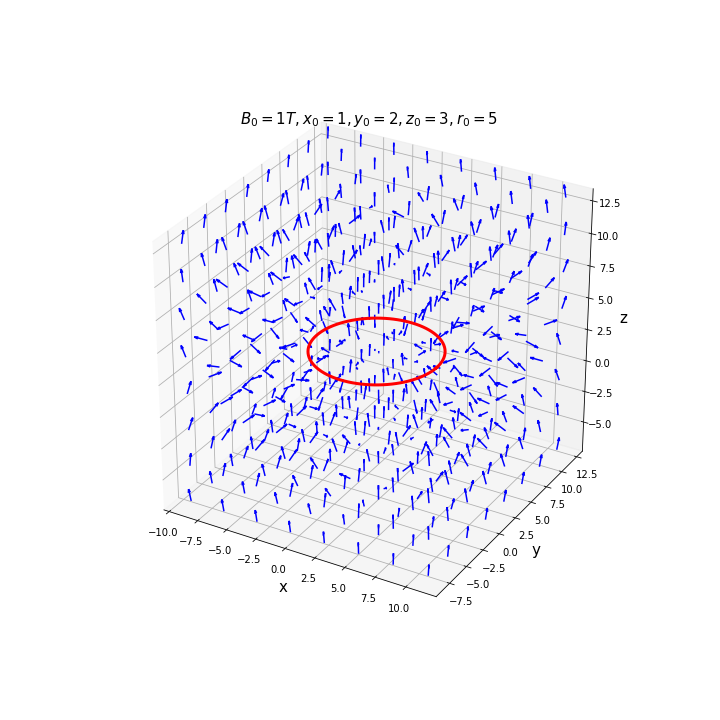
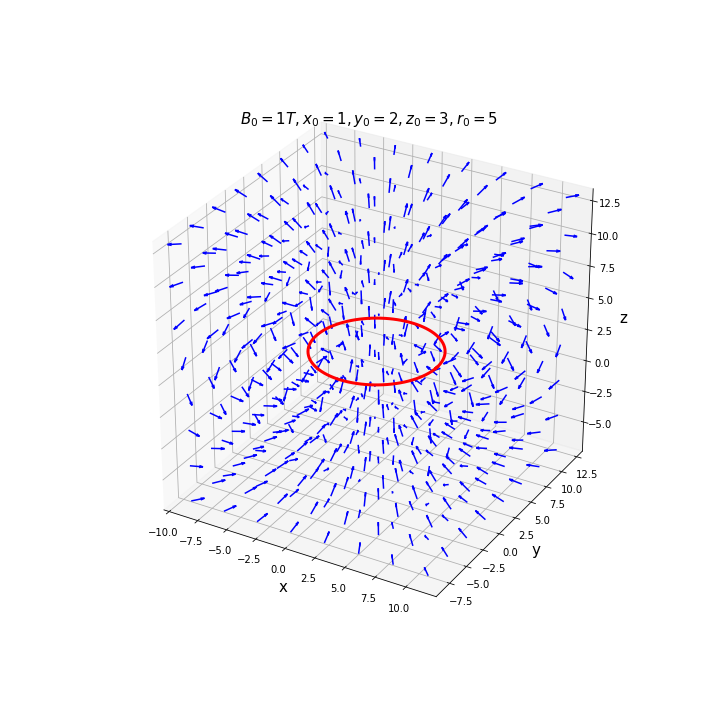
solenoid large part + corrections display2D

diff --git a/Solenoid.py b/Solenoid.py
@@ -15,7 +15,7 @@ class Solenoid:
     
     * Attributes
         - self.B0: float
-            magnetic field at the center of the tile
+            magnetic field inside the solenoid if it were infinite
         - self.L: float
             the length of the solenoid in meter
         - self.n: float
@@ -36,13 +36,13 @@ class Solenoid:
             the tiles
         
     """
-    def __init__(self,B0=1,L=1,n=100,x0=0,y0=0,z0=0,r0=0.5,axis="z"):
+    def __init__(self,I=400,L=1,n=2000,x0=0,y0=0,z0=0,r0=0.5,axis="z"):
         """
         The constructor
         
         * Arguments
-        - B0: float
-            magnetic field at the center of the tile
+        - I: float
+            the current intensity
         - L: float
             the length of the solenoid in meter
         - n: float
@@ -62,7 +62,8 @@ class Solenoid:
             sol = Solenoid(B0=1,L=1,n=100,x0=0,y0=0,z0=0,r0=0.5,axis="z")
             print(sol)
         """
-        self.B0 = B0
+        mu0 = 4E-7*np.pi
+        self.B0 = mu0*n*I
         self.L = L
         self.n = n
         self.x0 = x0
@@ -73,9 +74,12 @@ class Solenoid:
         N = self.N
         d = L/(N-1)
         self.tiles = []
+        self.I = I
+        
+        b0 = I*mu0/2/r0
         
         for i in np.arange(N) :
-         self.tiles.append(Tile(B0/N,x0=x0,y0=x0,z0=z0-L/2+i*d,r0=r0))
+         self.tiles.append(Tile(b0,x0=x0,y0=x0,z0=z0-L/2+i*d,r0=r0))
         
         
 
@@ -102,7 +106,7 @@ class Solenoid:
             sol = solenoid(r0=0.5)
             l = np.linspace(-1,1,10)
             x, y, z = np.meshgrid(l,l,l)
-            Bx, By, Bz = sol.field(l,l,l)
+            Bx, By, Bz = sol.field(x, y, z)
         """
         Bx = 0
         By = 0
@@ -172,15 +176,77 @@ class Solenoid:
         ax.set_title(title,fontsize=15)
         return fig
 
-    def displayField2D(self,figsize=(10,10)):
+    def displayField2D(self,eq_0="y",figsize=(10,10),nb_points=20,color="blue",markTile=True):
         """
-        * Arguments
-            -
-        * Returns
-            -
-        """
-        title = r"$B_0 = "+str(self.B0)+"T, x_0 = "+str(self.x0)+", y_0 = "+str(self.y0)+", z_0 = "+str(self.z0)+", r_0 = $"+str(self.r0)+", N = "+str(self.N)+", L = "+str(self.L)
+        To display the field in a plan x=0, y=0 or z=0
 
+        * Arguments
+            - eq_0: string
+                to define the variable equal to 0
+                accepted argument "x", "y"
+            - figsize: (float,float)
+                to determine the size of the figure
+            - nb_points: int
+                number of points of evaluation on each axis
+            - color: string
+                color of the arrows
+            - markTile: boolean
+                To diplay the position of the tiles
+        * Returns
+            - fig: matplotlib.pyplot.figure
+                the figure
+                
+        * Example
+            sol = Solenoid(1,1,2,3,5)
+            fig = sol.displayField2D()
+            fig.savefig("sol_2D.png")
+        """
+        nb_points = int(nb_points)
         fig = plt.figure(figsize=figsize)
-        plt.title(title)
+        
+        if eq_0 == "x":
+            xlabel = r"$y$"
+            ylabel = r"$z$"
+            title = r"x = "+str(self.x0)
+            x1, x2 = np.meshgrid(np.linspace(-3*self.r0+self.y0, 3*self.r0+self.y0, nb_points),np.linspace(self.z0-2*self.L,self.z0+2*self.L, nb_points))
+            x3 = np.zeros_like(x1)+self.x0
+            Bx3, Bx1, Bx2 = self.field(x3, x1, x2)
+            
+        elif eq_0 == "y":
+            xlabel = r"$x$"
+            ylabel = r"$z$"
+            title = r"y = "+str(self.y0)
+            x1, x2 = np.meshgrid(np.linspace(-3*self.r0+self.x0, 3*self.r0+self.x0, nb_points),np.linspace(self.z0-2*self.L,self.z0+2*self.L, nb_points))
+            x3 = np.zeros_like(x1)+self.y0
+            Bx1, Bx3, Bx2 = self.field(x1, x3, x2)
+        else:
+            print("Your choice of plan is incorrect")
+            return fig
+        
+        if markTile:
+            for tile in self.tiles:
+                if eq_0 == "x":
+                    dotx1 = np.array([-tile.r0,tile.r0])+tile.y0
+                    dotx2 = [tile.z0,tile.z0]
+                elif eq_0 == "y":
+                    
+                    dotx1 = np.array([-tile.r0,tile.r0])+tile.x0
+                    dotx2 = [tile.z0,tile.z0]
+                plt.plot(dotx1,dotx2,'.',ms=5,color="red")
+                
+                    
+            
+        no = np.sqrt(Bx1**2+Bx2**2+Bx3**2)
+        Bx1 = Bx1/no
+        Bx2 = Bx2/no
+
+        plt.quiver(x1,x2,Bx1,Bx2,color=color)
+            
+                
+        plt.title(r"$B_0 = $"+str(self.B0)+"$T$, "+title,fontsize=15)
+        plt.xlabel(xlabel,fontsize=15)
+        plt.ylabel(ylabel,fontsize=15)
+        plt.tight_layout()
+
         return fig
+

diff --git a/Tile.py b/Tile.py
@@ -73,7 +73,7 @@ class Tile:
             tile = Tile(1,1,2,3,5)
             l = np.linspace(-1,1,10)
             x, y, z = np.meshgrid(l,l,l)
-            Bx, By, Bz = tile.field(l,l,l)
+            Bx, By, Bz = tile.field(x, y, z)
         """
         x = x-self.x0
         y = y-self.y0
@@ -83,6 +83,12 @@ class Tile:
             K = special.ellipk
             E = special.ellipe
             r = np.sqrt(x1**2+y1**2)
+            a = r/self.r0
+            b = z1/self.r0
+            c = z1/r
+            Q = (1+a)**2 + b**2
+            m = 4*a/Q
+            
             if r == self.r0 and z1 == 0:
                 warnings.warn("Warning : you cannot estimate the field on the tile")
                 return np.nan, np.nan, np.nan
@@ -91,18 +97,17 @@ class Tile:
                 Bz = self.B0*(ca**3)                
                 return 0, 0, Bz
             
-            a = r/self.r0
-            b = z1/self.r0
-            c = z1/r
-            Q = (1+a)**2 + b**2
-            k = np.sqrt(4*a/Q)
+            if np.abs(m-1) < 0.01:
+                def K(x):
+                    return special.ellipkm1(1-x)
+            
             c1 = x1/r
             s1 = y1/r
     
-            Br = self.B0*c/(np.pi*np.sqrt(Q))*(E(k)*(1+a**2+b**2)/(Q-4*a)-K(k))
+            Bz = self.B0/(np.pi*np.sqrt(Q))*(E(m)*(1-a**2-b**2)/(Q-4*a)+K(m))
+            Br = self.B0*c/(np.pi*np.sqrt(Q))*(E(m)*(1+a**2+b**2)/(Q-4*a)-K(m))
             Bx = Br*c1
             By = Br*s1
-            Bz = self.B0/(np.pi*np.sqrt(Q))*(E(k)*(1-a**2-b**2)/(Q-4*a)+K(k))
             return Bx, By, Bz
         vect = np.vectorize(f)
         return vect(x,y,z)
@@ -245,12 +250,12 @@ class Tile:
 
         else:
             print("Your choice of plan is incorrect")
-            return fig
+            return fig        
+
+        no = np.sqrt(Bx1**2+Bx2**2+Bx3**2)
+        Bx1 = Bx1/no
+        Bx2 = Bx2/no
         
-        Bx1 = Bx1/np.sqrt(Bx2**2+Bx1**2+Bx3**2)
-        Bx2 = Bx2/np.sqrt(Bx2**2+Bx1**2+Bx3**2)
-
-
         plt.title(r"$B_0 = $"+str(self.B0)+"$T$, "+title,fontsize=15)
         plt.xlabel(xlabel,fontsize=15)
         plt.ylabel(ylabel,fontsize=15)

diff --git a/main.py b/main.py
@@ -37,33 +37,26 @@ fig = tile.displayField3D()
 fig.savefig("3D.png")
 
 
-
 # create a tile and compute the field
 r0 = 2
 sol = Solenoid(1,0,0,0,r0)
 Bx, By, Bz = sol.field(1,1,1)
 print(Bx, By, Bz)
-# warning : you cannot estimate the field on the tile
-x0 = np.sqrt(r0)
-y0 = x0
-Bx, By, Bz = sol.field(x0, y0, 0)
-print(Bx, By, Bz)
+
 
 # display the solenoid
-sol = Solenoid()
+sol = Solenoid(n=100)
 fig = sol.displaySolenoid()
 fig.savefig("sol.png")
 
 # display the field created by a solenoid in 2D
 sol = Solenoid()
-fig = sol.displayField3D()
-fig.savefig("sol_3D.png")
-
-# display the field created by a solenoid in 3D
-sol = Solenoid()
 fig = sol.displayField2D()
 fig.savefig("sol_2D.png")
 
-
+# display the field created by a solenoid in 3D
+sol = Solenoid(n = 100)
+fig = sol.displayField3D()
+fig.savefig("sol_3D.png")
 
 

diff --git a/temp_main.py b/temp_main.py
@@ -9,17 +9,14 @@ from Solenoid import *
 from Tile import *
 import numpy as np
 
-# create a tile and compute the field
-r0 = 2
-sol = Solenoid(B0=1,L=1,n=100,x0=0,y0=0,z0=0,r0=r0,axis="z")
-print(sol)
+# display the field created by a tile in 2D
+tile = Tile()
+fig = tile.displayField2D()
+fig.savefig("2D.png")
 
-sol.displaySolenoid()
-Bx, By, Bz = sol.field(1,1,1)
-print(Bx, By, Bz)
 
-# warning : you cannot estimate the field on the tile
-x0 = np.sqrt(r0)
-y0 = x0
-Bx, By, Bz = sol.field(x0, y0, 0.5)
-print(Bx, By, Bz)
+# display the field created by a solenoid in 3D
+sol = Solenoid(n = 10)
+fig = sol.displayField2D()
+fig.savefig("sol_2D.png")
+

diff --git a/README.md b/README.md
@@ -45,7 +45,7 @@ Be careful, you cannot estimate the field on the tile. In that cas, the field va
 tile = Tile(1,1,2,3,5)
 l = np.linspace(-1,1,10)
 x, y, z = np.meshgrid(l,l,l)
-Bx, By, Bz = tile.field(l,l,l)
+Bx, By, Bz = tile.field(x, y, z)
 ```
 
 ### Tile.displayTile
@@ -173,7 +173,7 @@ To compute the magnetic field produced by the solenoid
 sol = solenoid(r0=0.5)
 l = np.linspace(-1,1,10)
 x, y, z = np.meshgrid(l,l,l)
-Bx, By, Bz = sol.field(l,l,l)
+Bx, By, Bz = sol.field(x, y, z)
 ```
             
 ### Solenoid.displaySolenoid
@@ -203,4 +203,30 @@ fig.savefig("sol.png")
 ![field in 3D](sol_3D.png "field in 3D")
 
 ### Solenoid.displayField2D
+To display the field in a plan x=0, y=0 or z=0
+
+* Arguments
+    - eq_0: string
+        to define the variable equal to 0
+        accepted argument "x", "y"
+    - figsize: (float,float)
+        to determine the size of the figure
+    - nb_points: int
+        number of points of evaluation on each axis
+    - color: string
+        color of the arrows
+    - markTile: boolean
+        To diplay the position of the tiles
+* Returns
+    - fig: matplotlib.pyplot.figure
+        the figure
+        
+* Example
+
+```python
+sol = Solenoid(1,1,2,3,5)
+fig = sol.displayField2D()
+fig.savefig("sol_2D.png")
+```
+            
 ![field in 2D](sol_2D.png "field in 2D")
